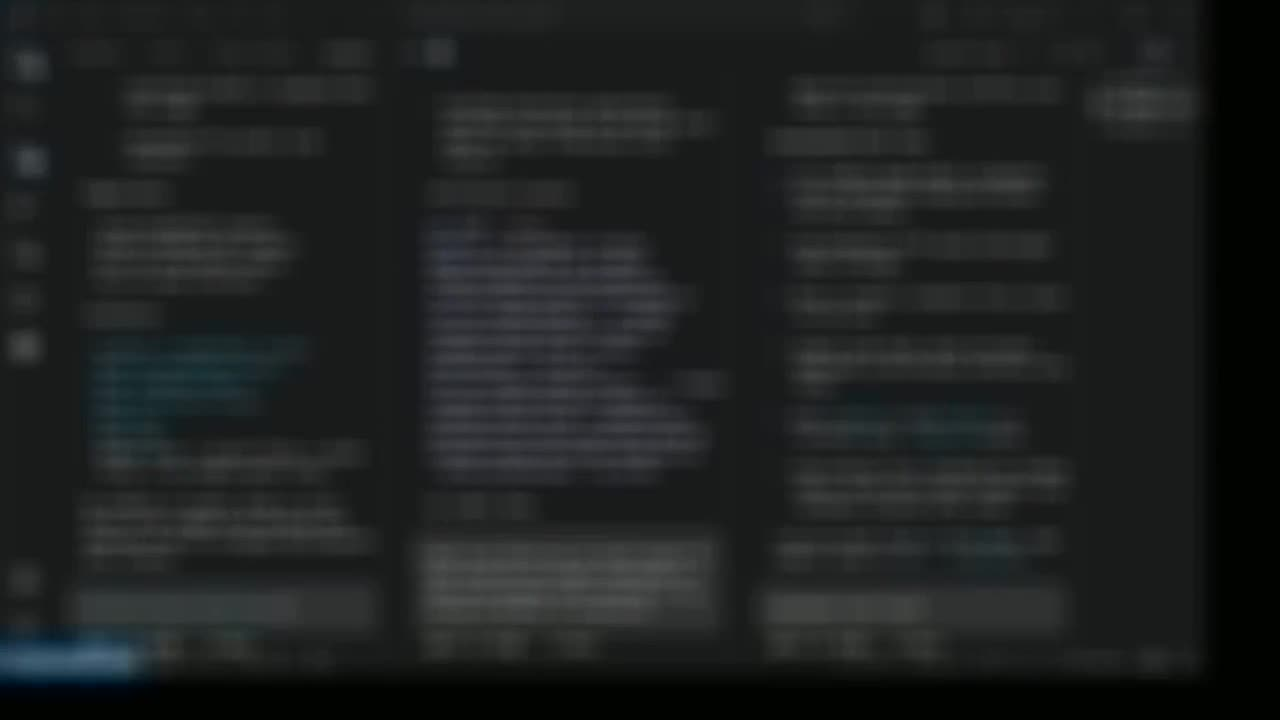
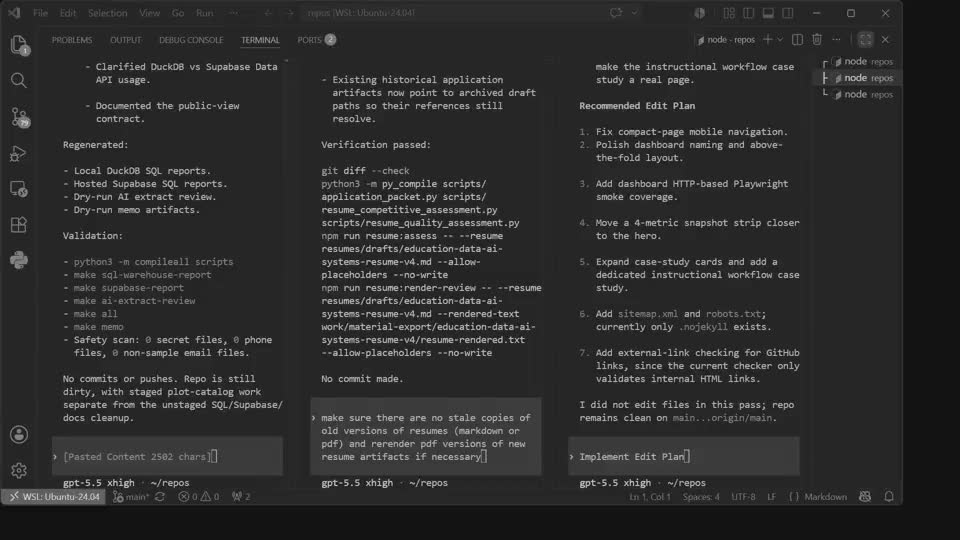
fix(site): switch to monochrome hero video theme

diff --git a/assets/css/styles.css b/assets/css/styles.css
@@ -1,16 +1,16 @@
 :root {
   color-scheme: light;
-  --ink: #0f2741;
-  --muted: #5e7188;
+  --ink: #0a0a0a;
+  --muted: #555555;
   --surface: #ffffff;
-  --surface-soft: #f5f8fb;
-  --line: #d8e1ea;
-  --navy: #003260;
-  --navy-2: #0a477b;
-  --gold: #c69a36;
-  --gold-2: #a87921;
-  --sky: #d9e8f3;
-  --shadow: 0 18px 48px rgba(0, 50, 96, 0.14);
+  --surface-soft: #f5f5f5;
+  --line: #d9d9d9;
+  --navy: #050505;
+  --navy-2: #333333;
+  --gold: #111111;
+  --gold-2: #333333;
+  --sky: #eeeeee;
+  --shadow: 0 18px 48px rgba(0, 0, 0, 0.14);
   --radius: 8px;
   --max: 1180px;
 }
@@ -150,7 +150,7 @@ img {
   align-items: center;
   overflow: hidden;
   color: #fff;
-  background: var(--navy);
+  background: #000;
 }
 
 .hero-media,
@@ -169,11 +169,11 @@ img {
   width: 100%;
   height: 100%;
   object-fit: cover;
-  filter: brightness(0.82) saturate(0.84);
+  filter: grayscale(1) contrast(0.9) brightness(0.78);
 }
 
 .hero-shade {
-  background: linear-gradient(90deg, rgba(0, 50, 96, 0.96) 0%, rgba(0, 50, 96, 0.82) 36%, rgba(0, 50, 96, 0.32) 72%, rgba(0, 50, 96, 0.16) 100%);
+  background: linear-gradient(90deg, rgba(0, 0, 0, 0.96) 0%, rgba(0, 0, 0, 0.8) 38%, rgba(0, 0, 0, 0.3) 72%, rgba(0, 0, 0, 0.12) 100%);
 }
 
 .hero-content {
@@ -191,6 +191,10 @@ img {
   font-weight: 800;
   letter-spacing: 0.08em;
   text-transform: uppercase;
+}
+
+.hero .eyebrow {
+  color: #fff;
 }
 
 .hero h1 {
@@ -227,13 +231,13 @@ img {
   padding: 0.85rem;
   border: 1px solid rgba(255, 255, 255, 0.24);
   border-radius: var(--radius);
-  background: rgba(0, 50, 96, 0.22);
+  background: rgba(0, 0, 0, 0.34);
   backdrop-filter: blur(8px);
 }
 
 .hero-snapshot-item span {
   display: block;
-  color: var(--gold);
+  color: #fff;
   font-size: 0.72rem;
   font-weight: 850;
   letter-spacing: 0.06em;
@@ -260,8 +264,8 @@ img {
 }
 
 .button.primary {
-  background: var(--gold);
-  color: var(--navy);
+  background: #000;
+  color: #fff;
 }
 
 .button.secondary {
@@ -269,9 +273,14 @@ img {
   color: #fff;
 }
 
+.hero .button.primary {
+  background: #fff;
+  color: #000;
+}
+
 .button.outline {
   border-color: var(--line);
-  color: var(--navy);
+  color: var(--ink);
   background: var(--surface);
 }
 
@@ -430,7 +439,7 @@ h3 {
 .artifact-link-card:hover,
 .artifact-link-card:focus-visible {
   border-color: var(--navy-2);
-  box-shadow: 0 12px 28px rgba(0, 50, 96, 0.11);
+  box-shadow: 0 12px 28px rgba(0, 0, 0, 0.11);
   transform: translateY(-1px);
 }
 
@@ -562,7 +571,7 @@ h3 {
 
 .site-footer {
   border-top: 1px solid var(--line);
-  background: var(--navy);
+  background: #000;
   color: #fff;
 }
 
@@ -835,7 +844,7 @@ h3 {
   align-items: end;
   padding: 1rem;
   border: 1px solid var(--line);
-  background: #f6f8fb;
+  background: #f7f7f7;
 }
 
 .control-row {
@@ -890,8 +899,8 @@ h3 {
 
 .line-control-grid label:focus-within select,
 .line-control-grid label:focus-within input {
-  border-color: #2f66c8;
-  box-shadow: 0 0 0 2px rgba(47, 102, 200, 0.14);
+  border-color: #111111;
+  box-shadow: 0 0 0 2px rgba(0, 0, 0, 0.14);
 }
 
 .toggle-row {
@@ -1128,11 +1137,11 @@ h3 {
 }
 
 .department-key {
-  background: rgba(198, 154, 54, 0.28);
+  background: rgba(0, 0, 0, 0.24);
 }
 
 .network-key {
-  background: rgba(0, 50, 96, 0.14);
+  background: rgba(0, 0, 0, 0.14);
 }
 
 .benchmark-key {
@@ -1145,11 +1154,11 @@ h3 {
 }
 
 .section-key {
-  border-top-color: #9baabd;
+  border-top-color: #a6a6a6;
 }
 
 .distribution-key {
-  border-top-color: #6f8296;
+  border-top-color: #777777;
 }
 
 .panel-heading span {
@@ -1212,18 +1221,18 @@ h3 {
 }
 
 .axis-grid {
-  stroke: #dfe6ee;
+  stroke: #e5e5e5;
   stroke-width: 1.1;
 }
 
 .axis-line {
-  stroke: #98a9ba;
+  stroke: #9a9a9a;
   stroke-width: 1.3;
 }
 
 .axis-label,
 .axis-title {
-  fill: #667287;
+  fill: #666666;
   font-family: Inter, ui-sans-serif, system-ui, -apple-system, BlinkMacSystemFont, "Segoe UI", sans-serif;
   font-size: 14px;
   font-weight: 760;
@@ -1326,7 +1335,7 @@ h3 {
 }
 
 .right-label-text {
-  fill: #677083;
+  fill: #666666;
   font-family: Inter, ui-sans-serif, system-ui, -apple-system, BlinkMacSystemFont, "Segoe UI", sans-serif;
   font-size: 15px;
   font-weight: 760;
@@ -1366,24 +1375,24 @@ h3 {
 }
 
 .distribution-whisker {
-  stroke: #6f8296;
+  stroke: #777777;
   stroke-width: 1.25;
 }
 
 .distribution-box-edge {
-  stroke: #6f8296;
+  stroke: #777777;
   stroke-width: 1.7;
   stroke-linecap: round;
 }
 
 .distribution-median {
   fill: #ffffff;
-  stroke: #6f8296;
+  stroke: #777777;
   stroke-width: 1.6;
 }
 
 .distribution-detail-whisker {
-  stroke: #6f8296;
+  stroke: #777777;
   stroke-width: 1.4;
 }
 
@@ -1413,7 +1422,7 @@ h3 {
 
 .section-shadow-line {
   fill: none;
-  stroke: #8092a6;
+  stroke: #999999;
   stroke-width: 1.35;
   opacity: 0.32;
 }
@@ -1685,7 +1694,7 @@ th {
   gap: 0.75rem;
   padding: 1rem;
   border-top: 1px solid var(--line);
-  background: #f8fafc;
+  background: #f7f7f7;
 }
 
 .data-lab-form input {
@@ -1806,7 +1815,7 @@ th {
 }
 
 .chat-chart-axis {
-  stroke: #98a9ba;
+  stroke: #9a9a9a;
   stroke-width: 1.2;
 }
 
@@ -1863,7 +1872,7 @@ th {
 }
 
 .chat-status.error {
-  border-left-color: #a33d2b;
+  border-left-color: #555555;
 }
 
 .chat-status strong {
@@ -1972,7 +1981,7 @@ th {
   }
 
   .hero-shade {
-    background: rgba(0, 50, 96, 0.78);
+    background: rgba(0, 0, 0, 0.78);
   }
 
   .hero-snapshot {

diff --git a/assets/js/assessment-dashboard.js b/assets/js/assessment-dashboard.js
@@ -50,7 +50,7 @@ const sliceLabels = {
   section: "section",
 };
 
-const palette = ["#315f88", "#5e8a78", "#af7162", "#a98f4f", "#8177a6", "#5f9296", "#9b744a", "#7c8798", "#8b637b", "#527d51"];
+const palette = ["#111111", "#333333", "#555555", "#777777", "#999999", "#bbbbbb", "#2a2a2a", "#4a4a4a", "#6a6a6a", "#8a8a8a"];
 const assetVersion = document.documentElement.dataset.assetVersion || "dashboard-views-v1";
 
 const els = {
@@ -248,8 +248,8 @@ function periodDataForTimeSeries(records) {
 }
 
 function heatColor(intensity) {
-  const start = [232, 239, 246];
-  const end = [0, 50, 96];
+  const start = [238, 238, 238];
+  const end = [20, 20, 20];
   const rgb = start.map((channel, index) => Math.round(channel + (end[index] - channel) * intensity));
   return `rgb(${rgb.join(",")})`;
 }

diff --git a/README.md b/README.md
@@ -35,7 +35,7 @@ grant-mccurdy.github.io/
 - `assets/css/styles.css` controls the visual system.
 - `assets/js/site.js` controls the mobile navigation and header state.
 - `assets/js/data-lab.js` renders analytic response blocks from the private backend. Configure the endpoint through the `data-api-endpoint` attribute after Worker deployment, or use an `endpoint` query parameter for local testing.
-- `assets/video/workflow-hero.mp4` is the muted, blurred, sped-up homepage hero loop generated from a local workflow recording.
+- `assets/video/workflow-hero.mp4` is the muted, grayscale, slightly sped-up homepage hero loop generated from a local workflow recording.
 - `assets/images/workflow-hero-poster.jpg` is the static poster and reduced-motion fallback for the homepage hero.
 - `.nojekyll` keeps GitHub Pages from applying Jekyll processing.
 - `sitemap.xml` and `robots.txt` expose the public portal pages to crawlers.